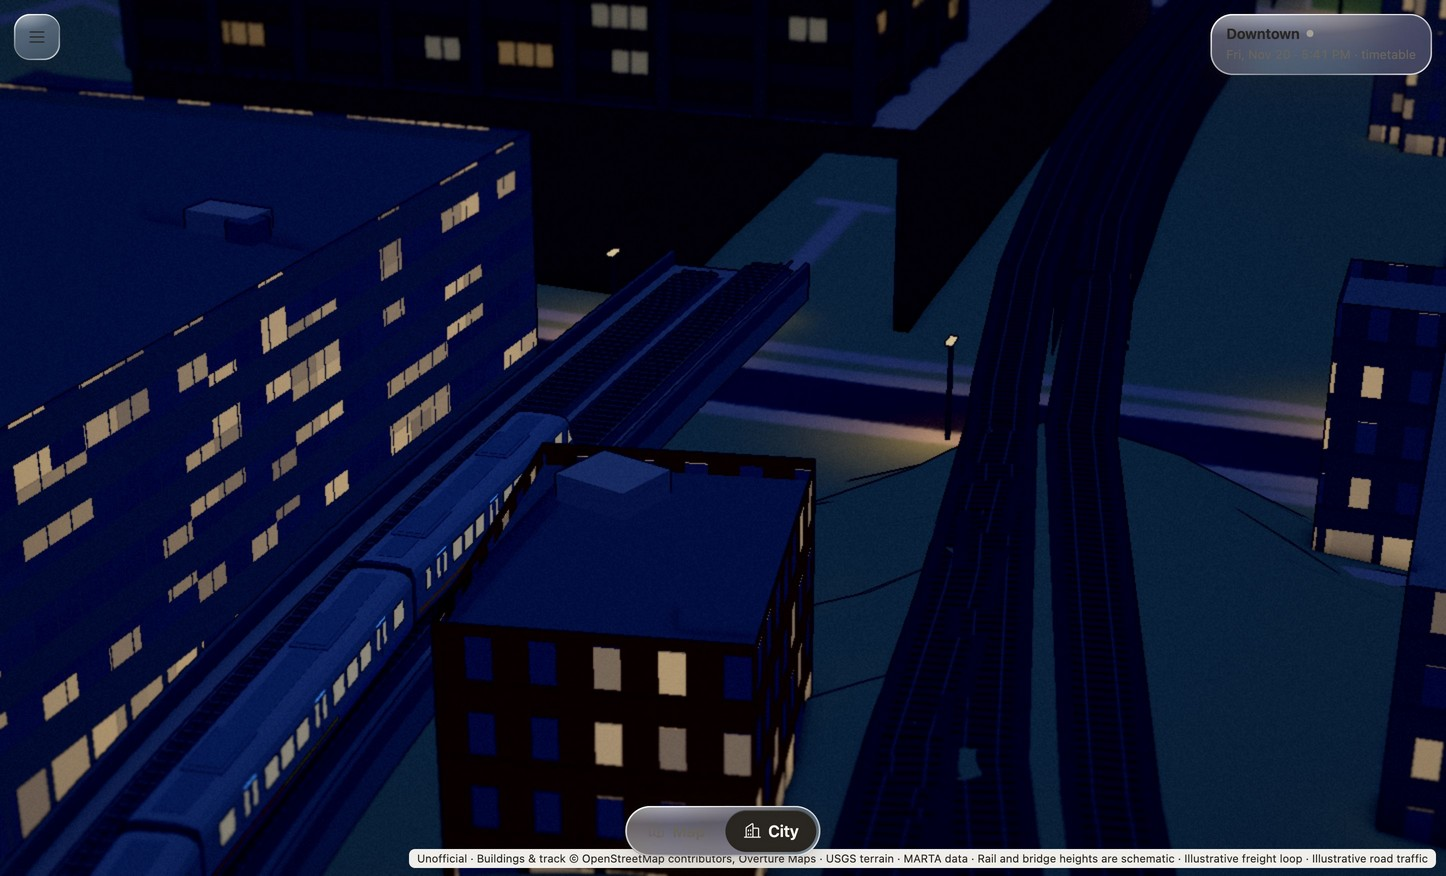
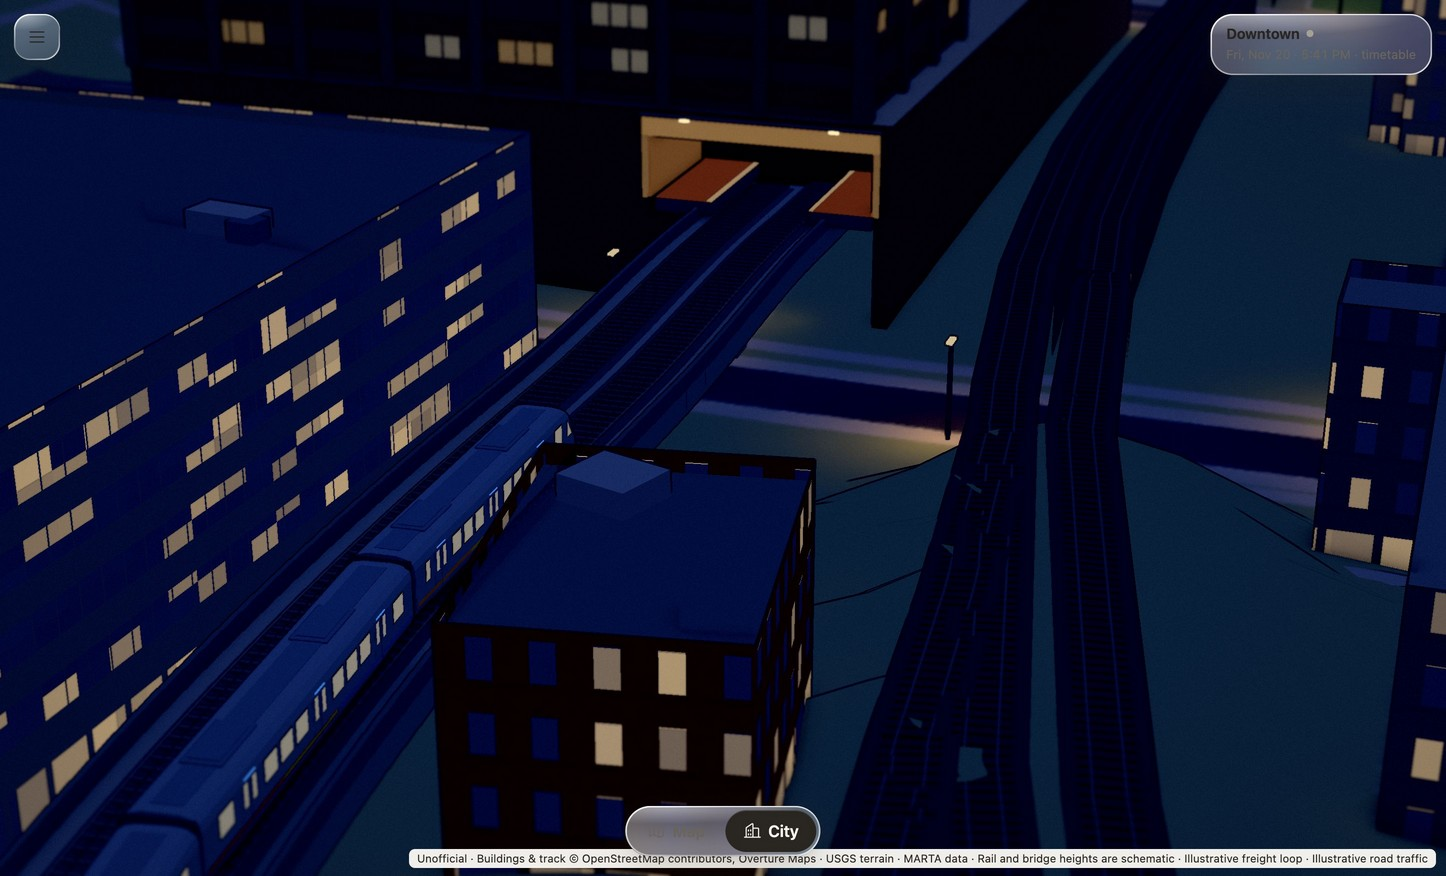
Verify the landmark with the registered station and its entrance lights

Changed region(s): [[0.0, 0.0, 0.7469, 1.0], [0.6535, 0.0, 0.8091, 0.3082], [0.0, 0.9863, 0.0622, 1.0]]

diff --git a/web/src/city/floyd.test.ts b/web/src/city/floyd.test.ts
@@ -2,11 +2,17 @@ import { describe, expect, it } from 'vitest';
 import { Mesh, Raycaster, Vector3 } from 'three';
 import type { VBuilding } from '../vignette/world';
 import { createFloyd } from './floyd';
+import { georgiaStateScene } from './georgia-state-geometry';
 
 // Rail Accuracy's two mapped face midpoints in City metres. The model must also
 // tolerate their translation onto City's smoothed line without moving the towers.
-const west = { x: 488.95, z: 386.55, bedY: -12 };
-const east = { x: 577, z: 461.75, bedY: -9 };
+const station = georgiaStateScene({ lon: -84.3916, lat: 33.7539 });
+const sample = (u: number, bedY: number) => {
+  const [x, z] = station.fromFrame(u, 0);
+  return { x, z, bedY };
+};
+const west = sample(station.faces.nw.u, -12);
+const east = sample(station.faces.se.u, -9);
 const delta = new Vector3(east.x - west.x, 0, east.z - west.z);
 const length = delta.length(), along = delta.clone().normalize();
 const right = new Vector3(-along.z, 0, along.x);
@@ -26,7 +32,7 @@ describe('Floyd tower replacement', () => {
       new Raycaster(position, direction, 0, far).intersectObject(model.group, true)[0];
     // Cast through the actual triangles at train and platform heights. A wall drawn
     // across either end or a tower body sunk down to ground interrupts these rays.
-    for (const lateral of [-8.78, -2.43, 2.43, 8.4]) {
+    for (const lateral of [...station.faces.se.opening, -2.43, 2.43]) {
       for (const y of [east.bedY + 1.2, east.bedY + 4.2]) {
         const start = origin.clone().addScaledVector(right, lateral).addScaledVector(along, -1);
         start.y = y;

diff --git a/docs/floyd-towers.md b/docs/floyd-towers.md
@@ -21,22 +21,22 @@ Georgia DCA describes red-brick veneer and a flat-roofed connecting base. The wa
 |---|---|
 | Tower plans | The projected building parts are about 31.2 × 62.1 m and 31.7 × 62.1 m. The gap between them is about 52.9 m in this rectangular approximation. Their plan positions stay fixed when the track is registered to the City line. [Tower One](https://www.openstreetmap.org/way/537007595) · [Tower Two](https://www.openstreetmap.org/way/537007597) |
 | Heights | Both OSM parts carry 20 levels and a 78.4 m height tag. The height's survey source is unknown. The model uses 78.4 m above one sampled plaza-side ground elevation as a **schematic** common crown. Eighteen glazed rows above the two-level base, the crown depth and roof equipment are modeling choices. [Base](https://www.openstreetmap.org/way/287320828) |
-| Railway | Rail Accuracy locates the two faces 115.7 m apart along the mapped axis. Track spacing is about 4.86 m. The outer platform edges span roughly −8.78 to +8.40 m in the mapped frame. Control registers that frame to the smoothed City corridor, roughly 2.3 m north. Both platforms and the mouth must receive the same translation. [Eastbound passage](https://www.openstreetmap.org/way/702258821) · [Westbound passage](https://www.openstreetmap.org/way/702258822) |
+| Railway | Rail Accuracy locates the two faces 115.7 m apart along the mapped axis. Track spacing is about 4.86 m. The outer platform edges span roughly −8.78 to +8.40 m in the mapped frame. Control registers that frame to the smoothed City corridor, roughly 2.3 m north. Both platforms and the mouth must receive the same translation. [Rail Accuracy’s station frame](georgia-state-geometry.md) [Eastbound passage](https://www.openstreetmap.org/way/702258821) · [Westbound passage](https://www.openstreetmap.org/way/702258822) |
 | Model opening | The void is 18 m wide, from −9 to +9 m across each centre sample. Its horizontal soffit is 6.4 m above the **highest** supplied bed. The flat roof is another 2.2 m higher. These values provide space for the modeled platforms and cars. Actual rail clearances and structural depths are unmeasured. |
 
 ## City composition
 
 Call `createFloyd(vd.buildings, passage, groundAt)` from `web/src/city/floyd.ts` after the registered station samples exist and **before** batching generic buildings. Supply the full face-to-face centreline, ordered northwest to southeast, including both face samples. Each point is `{ x, z, bedY }` in City metres. Use the same bed as the drawn rails, before their +0.55 m offset. `groundAt` supplies scene-relative terrain metres or null.
 
-- On success, pass `{ ...vd, buildings: floyd.buildings }` to the generic terrain/scenery builder and add `floyd.group` once. The filtered array drops the Floyd base UUID. Older or incomplete scenes for which the factory returns null use the existing generic buildings. The original bake is reusable.
+- On success, pass `{ ...vd, buildings: floyd.buildings }` to the generic terrain/scenery builder and add `floyd.group` once. The filtered array drops the Floyd base UUID. Missing plaza ground, an absent base ID or an invalid rail passage returns null so the generic buildings are preserved. The original bake is reusable.
 - `eastFace` returns `{ x, z, bedY, dx, dz, soffitY, clearWidthM }`. The fascia is in the vertical plane through the final sample, perpendicular to the outward tangent `(dx,dz)`. Moving inward for a ceiling fixture means subtracting its setback times that tangent. Place it just below `soffitY`. In the preview, the face is at (578.14, 460.42), the bed at −9.32 and the soffit at −2.74 scene metres. Read these values from the returned model for the integrated alignment.
 - Call `floyd.setNight(atm.dark)` alongside the existing night update. This varies the brightness of a fixed set of office windows. The entrance lights, canopies, track deck and train visibility belong to the station composition.
 - Call `floyd.dispose()` when an in-progress build is cancelled and when the scene is released, before any remaining scene traversal. It detaches the group and releases both geometries and materials. The 30-sample preview submits 2,356 opaque triangles plus 1,456 triangles in one window batch after dusk. Position, normal and colour arrays total 411,696 bytes. The model needs no textures or extra light sources.
-- The branch contains the model and tests. Control owns the import and release in `city.ts`. Once composed, rebuild the web bundle and redeploy with the existing City assets.
+- The branch contains the model and tests. Control owns the import and release in `city.ts`. Once composed, rebuild and redeploy with the City assets that include the 116 m Floyd cover span from [the station geometry bake](georgia-state-geometry.md#regenerating). The landmark adds no new asset.
 
 ## Before and after
 
-Orca desktop, 1446 × 876, high quality, paused Atlanta time on 2026-11-20. The after frames temporarily composed the module with the existing City renderer and the two mapped faces projected onto the rendered alignment, sampled at intervals of at most 4 m. Entrance lighting and track continuity inside the station are part of Control’s integration.
+Orca desktop, 1446 × 876, high quality, paused Atlanta time on 2026-11-20. The plaza comparison isolates the landmark. For the dusk and winter study poses and the daylight mouth, I also opened Control’s integrated City build in Orca. The after images below include its registered rails, platforms and entrance lighting. The 17:41:28 close frame shows the train between the platforms beneath the lit fascia. [Integrated arrival](log/ui/floyd/entrance-after.jpg)
 
 | Pose | What to look for |
 |---|---|

diff --git a/docs/build-log.md b/docs/build-log.md
@@ -1451,4 +1451,4 @@ ease its drawn line onto the surveyed axis inside the station. OSM also draws th
 
 ### 2026-11-22 — The pair of towers above Georgia State
 
-From the plaza, the Floyd Building has three window bays across the face of each tower. From the street corner, eight bays turn along the side. Both towers rise from the same low roof, with about 53 m of sky between them. In the old City frame, a single 25.2 m block occupied the whole footprint. In the new one, the train enters an 18 m model opening at the northeast edge of the base and passes beneath both towers. The twenty storeys are documented. The 78.4 m height is an unverified map tag, and the soffit is schematic. [Plaza before](log/ui/floyd/plaza-before.jpg) · [Plaza after](log/ui/floyd/plaza-after.jpg) · [Dusk approach](log/ui/floyd/dusk-after.jpg) · [Photographs, dimensions and camera comparisons](floyd-towers.md)
+From the plaza, the Floyd Building has three window bays across the face of each tower. From the street corner, eight bays turn along the side. Both towers rise from the same low roof, with about 53 m of sky between them. In the old City frame, a single 25.2 m block occupied the whole footprint. In the integrated City preview, the train enters an 18 m model opening at the northeast edge of the base and passes beneath both towers. The twenty storeys are documented. The 78.4 m height is an unverified map tag, and the soffit is schematic. [Plaza before](log/ui/floyd/plaza-before.jpg) · [Plaza after](log/ui/floyd/plaza-after.jpg) · [Dusk approach](log/ui/floyd/dusk-after.jpg) · [Photographs, dimensions and camera comparisons](floyd-towers.md)
